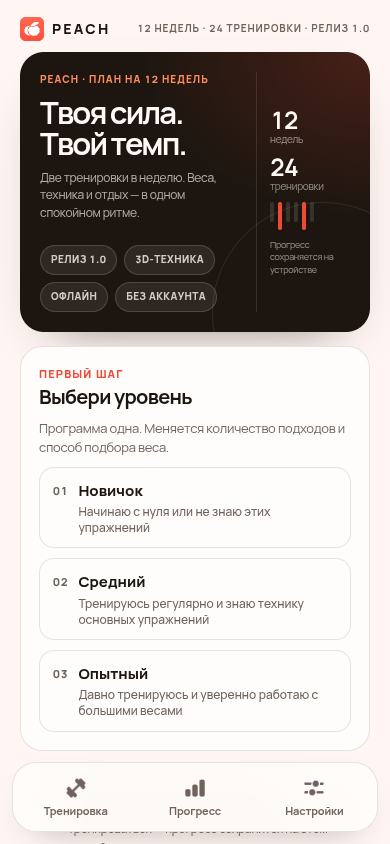
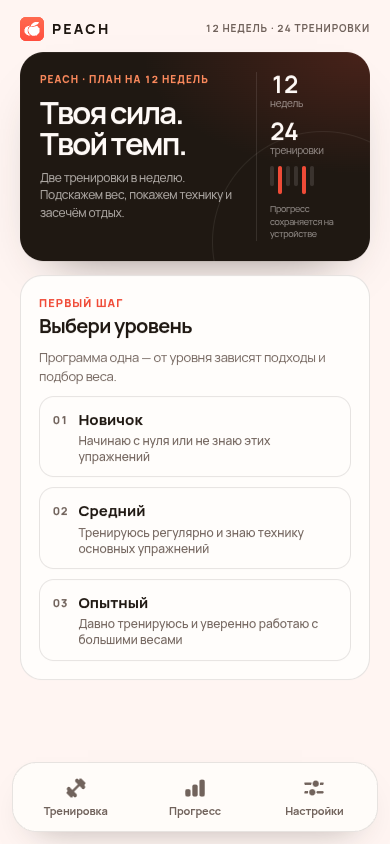
Calm UI 1.1: focused workout, contained timer, stable navigation

diff --git a/index.html b/index.html
@@ -474,7 +474,7 @@ input[aria-invalid="true"]{box-shadow:0 0 0 2px var(--bad)}
 <div id="launch" aria-hidden="true"><svg><use href="#peach"/></svg></div>
 
 <header><div class="wrap">
-  <div class="brandline"><span class="brand"><img class="brand-logo" src="peach-logo.svg" alt="" width="24" height="24">PEACH</span><span class="brandnote">12 недель · 24 тренировки · Релиз 1.0</span></div>
+  <div class="brandline"><span class="brand"><img class="brand-logo" src="peach-logo.svg" alt="" width="24" height="24">PEACH</span><span class="brandnote">12 недель · 24 тренировки</span></div>
   <div class="top">
     <div><h1 id="ttl">Неделя 1</h1><div class="sub" id="sub"></div></div>
     <div class="ring" title="Выполнено тренировок"><svg viewBox="0 0 50 50"><circle class="tr" cx="25" cy="25" r="21"/><circle class="pr" id="ringp" cx="25" cy="25" r="21" stroke-dasharray="131.9" stroke-dashoffset="131.9"/></svg><b id="ringt">0/24</b></div>
@@ -501,7 +501,7 @@ input[aria-invalid="true"]{box-shadow:0 0 0 2px var(--bad)}
     <span class="rest-kicker" id="rfkicker">Отдых</span>
     <div class="rest-ring">
       <svg viewBox="0 0 280 280" aria-hidden="true"><circle class="rr-track" cx="140" cy="140" r="122"/><circle class="rr-progress" id="rfprogress" cx="140" cy="140" r="122" pathLength="100" stroke-dasharray="100" stroke-dashoffset="100"/></svg>
-      <div class="rest-clockbox"><span class="rest-state" id="rfstate">Отдых</span><b class="rest-clock" id="rfclock" role="timer" aria-live="off">0:00</b><span class="rest-sub" id="rfsub">до следующего подхода</span></div>
+      <div class="rest-clockbox"><span class="rest-state" id="rfstate">Отдых</span><b class="rest-clock" id="rfclock" role="timer" aria-live="off">0:00</b><span class="rest-sub" id="rfsub">до подхода</span></div>
     </div>
     <div class="rest-next" id="rfcard"></div><p id="rfcoach" class="rest-coach"></p><div class="rest-effort"><span>Как прошёл подход? <small>можно пропустить</small></span><div class="effort-options" id="rfeffort"><button type="button" data-effort="easy" aria-pressed="false">Легко</button><button type="button" data-effort="ok" aria-pressed="false">Нормально</button><button type="button" data-effort="hard" aria-pressed="false">Тяжело</button></div><p id="rfnote" class="effort-note" role="status"></p></div>
   </div>
@@ -645,7 +645,7 @@ function newBlock(){               /* carry working weights into a fresh 12 week
 }
 function tonnage(w,d){let t=0;for(const ex of EX[d])for(const r of rows(w,ex.id))t+=num(r[0])*num(r[1]);return t}
 const PV=2;                                                      /* program version: 2 = seated leg curl added */
-const RELEASE={version:"1.0.0",date:"26 ноября 2026",name:"PEACH"};
+const RELEASE={version:"1.1.0",date:"26 ноября 2026",name:"PEACH"};
 function dayVer(w,d){const v=(S.verAt||{})[w+"-"+d];if(v)return v;return EX[d].some(ex=>!ex.since&&rows(w,ex.id).some(full))?1:PV}
 const EXD=(w,d)=>EX[d].filter(ex=>(ex.since||1)<=dayVer(w,d));
 const easy=(w,d)=>!!(S.easy&&S.easy[w+"-"+d]);
@@ -921,8 +921,11 @@ function renderTrain(fresh){
     if(ex.tip)coach+=`<p class="meta">${esc(ex.tip)}.</p>`;
     h+=`<p class="meta">Отдых ${ex.rest}.</p>`;
     if(ex.alt?HOWA[ex.name]:HOW[ex.id])h+=`<button type="button" class="technique-link" data-how="${ex.id}"><span>Показать технику</span><small>схема и подсказки</small><b aria-hidden="true">›</b></button>`;
-    if(coach)h+=`<details class="why coach"><summary>Как делать подходы</summary><div class="coach-body">${coach}</div></details>`;
-    if(beg&&w===1&&!lt&&!r.some(full))h+=beginnerGuide(ex,w);
+    let help="";
+    if(coach)help+=`<div class="coach-body">${coach}</div>`;
+    if(beg&&w===1&&!lt&&!r.some(full))help+=beginnerGuide(ex,w);
+    help+=exerciseWhy(ex);
+    if(help)h+=`<details class="why coach ex-help"><summary>Подсказки к упражнению</summary>${help}</details>`;
     h+=`<div class="sets">`;
     for(let s=0;s<n;s++){
       const on=full(r[s]), sg=suggest(ex,w,d,s), emptyUndo=justUndone&&justUndone.id===ex.id&&justUndone.s===s&&!justUndone.prev, v=on?r[s]:emptyUndo?["",""]:[sg.kg,sg.reps];
@@ -935,7 +938,6 @@ function renderTrain(fresh){
       }else h+=`<button type="button" class="srow${on?" on":""}${justDone&&justDone.id===ex.id&&justDone.s===s?" new":""}" data-edit="${s}" aria-label="Подход ${s+1}${on?", выполнен":""}"><span class="n">${s+1}</span><span class="val">${v[0]!==""?`<b>${esc(v[0])}</b> кг × <b>${esc(v[1])}</b>`:"— кг × "+esc(v[1])}</span><span class="ck">${on?CK:""}</span></button>`;
     }
     h+=`</div>`;
-    h+=exerciseWhy(ex);
     if(ex.wave&&!pick(ex.id,w)){const v=e1(w,ex.id),tv=p===2&&!ez?testE1(w,ex.id):0;let best=base(ex.id,1);for(let x=1;x<w;x++)best=Math.max(best,e1(x,ex.id));
       if(v)h+=`<div class="e1">Оценка силы: <b>≈${fmt(v)} кг на 1 повторение</b>${v>best+0.05?'<span class="tag">рекорд</span>':""}</div><p class="meta">Только для сравнения результатов. Не пробуй этот вес.</p>`;
       if(tv)h+=`<p class="meta">Следующие 4 недели рассчитаем по первому контрольному подходу ★. Его оценка: <b>≈${fmt(tv)} кг на 1 повторение</b>.</p>`}
@@ -1028,7 +1030,7 @@ function achCard(){
 function bodyCard(){
   const a=S.body||[], f=k=>a.filter(x=>num(x[k])), talk=bodyTalk(), p=S.photo||{}, due=photoDue(), dt=t=>new Date(t).toLocaleDateString("ru-RU",{day:"2-digit",month:"2-digit"});
   let h=`<section class="card" id="bodycard"><div class="row"><h3>Фото и замеры</h3><span class="pill ${p.a?"good":"wait"}">${p.z?"до и после есть":p.a?"точка отсчёта есть":"начни с фото"}</span></div>`;
-  if(!p.a)h+=`<p><b>Фото помогают увидеть изменения.</b> То, что происходит постепенно, трудно заметить в зеркале каждый день.</p><p>Сними первое фото сегодня. Оно останется в твоём телефоне — приложение его не загружает.</p>`;
+  if(!p.a)h+=`<p class="meta">Первое фото — точка отсчёта на 12 недель. Оно остаётся в твоём телефоне.</p>`;
   h+=`<div class="pht">${PHO.map(([k,n])=>`<div class="${p[k]?"on":k===due?"due":""}"><b>${p[k]?"✓ ":""}${n}</b><span>${p[k]?dt(p[k]):k==="a"?"сегодня":k==="m"?"недели 6–8":"после 12-й недели"}</span></div>`).join("")}</div>`;
   if(due)h+=`<button type="button" class="easy" data-photo="${due}">${due==="a"?"Фото «до» сделала":due==="m"?"Фото на середине сделала":"Фото «после» сделала"}</button>`;
   else if(p.z)h+=`<p><b>Открой первое и последнее фото рядом.</b> Сравнивай их в одинаковом свете.</p>`;
@@ -1090,13 +1092,13 @@ function renderProgressBeg(){
     h+=`<section class="card"><div class="row"><h3>${l.name}</h3><span class="pill ${got.length<2?"wait":diff>0?"good":"warn"}">${got.length<2?"ждём записей":diff>0?"вес растёт":"вес пока на месте"}</span></div>
       ${got.length?`<div class="big">${fk(last)} <small>кг${got.length>1?` · ${diff>=0?"+":"−"}${fk(Math.abs(diff))} кг к первой неделе`:" · рабочий вес"}</small></div>${weekChart(vals)}`:`<p class="meta">Рабочий вес появится после первой тренировки с этим упражнением.</p>`}</section>`;
   }
-  h+=historyCard()+achCard()+`<p class="meta">На графике — самый тяжёлый рабочий подход каждой недели.</p>`+bodyCard()+`
-    <section class="card"><h3>Если вес не растёт</h3><ul>
+  h+=historyCard()+`<details class="card fold"><summary>Достижения</summary>`+achCard()+`</details><p class="meta">На графике — самый тяжёлый рабочий подход каждой недели.</p>`+bodyCard()+`
+    <details class="card fold"><summary>Если вес не растёт</summary><ul>
     <li>Не получился максимум диапазона — повтори тот же вес в следующий раз.</li>
     <li>Вес стоит три недели — проверь, не остаётся ли после подхода больше 3 повторений. Если да, немного прибавь.</li>
     <li>Копится усталость или падают веса — включи «Сегодня полегче».</li>
     <li>Для прогресса нужны сон, достаточно еды и белок 1,6–2,2 г на килограмм веса.</li>
-    <li>Болит сустав или поясница — остановись и замени упражнение. Боль не терпи.</li></ul></section>`;
+    <li>Болит сустав или поясница — остановись и замени упражнение. Боль не терпи.</li></ul></details>`;
   $("view").innerHTML=h;syncFooter();
 }
 function renderProgress(){
@@ -1118,31 +1120,31 @@ function renderProgress(){
     h+=`<tr class="${p===3?"rest":""}${w===S.cur.w?" cur":""}"><td>${w} · ${LABEL[p]}</td>`+
       LIFTS.map(l=>`<td>${isBeg(w)?"новичок":(pick(l.id,w)||!base(l.id,1)?"подбор":fk(planKg(l.id,w)))+" × "+SC(w)[l.day].reps[p]}</td>`).join("")+`</tr>`}
   h+=`</tbody></table></div><p class="meta">В таблице: вес × повторения. После недель 3, 7 и 11 план обновится по контрольным подходам ★.</p></section>
-`+historyCard()+achCard()+bodyCard()+`<section class="card"><h3>Если вес не растёт</h3><ul>
+`+historyCard()+`<details class="card fold"><summary>Достижения</summary>`+achCard()+`</details>`+bodyCard()+`<details class="card fold"><summary>Если вес не растёт</summary><ul>
     <li>Одна неудачная тренировка — норма. Следующую начни по плану.</li>
     <li>Меньше повторений две проверки подряд — проверь сон, питание и технику.</li>
     <li>Для прогресса нужны достаточно еды и белок 1,6–2,2 г на килограмм веса.</li>
     <li>Падают веса сразу во всех упражнениях — сделай лёгкую неделю и поспи 7–9 часов.</li>
-    <li>Болит сустав или поясница — остановись и замени упражнение. Боль не терпи.</li></ul></section>`;
+    <li>Болит сустав или поясница — остановись и замени упражнение. Боль не терпи.</li></ul></details>`;
   $("view").innerHTML=h;syncFooter();
 }
 const isFirst=()=>!S.startSet&&!Object.keys(S.log||{}).length;
 const OB={};
 function welcomeHero(){
-  return `<section class="welcome-hero"><div class="welcome-copy"><span class="cap">PEACH · ПЛАН НА 12 НЕДЕЛЬ</span><h2>Твоя сила.<br>Твой темп.</h2><p>Две тренировки в неделю. Веса, техника и отдых — в одном спокойном ритме.</p><div class="release-strip" aria-label="Ключевые возможности релиза"><span>Релиз 1.0</span><span>3D-техника</span><span>Офлайн</span><span>Без аккаунта</span></div></div><div class="welcome-plan" aria-label="План: 12 недель, 24 тренировки"><div><b>12</b><span>недель</span></div><div><b>24</b><span>тренировки</span></div><div class="welcome-line"><i></i><i></i><i></i><i></i><i></i><i></i></div><small>Прогресс сохраняется на устройстве</small></div></section>`
+  return `<section class="welcome-hero"><div class="welcome-copy"><span class="cap">PEACH · ПЛАН НА 12 НЕДЕЛЬ</span><h2>Твоя сила.<br>Твой темп.</h2><p>Две тренировки в неделю. Подскажем вес, покажем технику и засечём отдых.</p></div><div class="welcome-plan" aria-label="План: 12 недель, 24 тренировки"><div><b>12</b><span>недель</span></div><div><b>24</b><span>тренировки</span></div><div class="welcome-line"><i></i><i></i><i></i><i></i><i></i><i></i></div><small>Прогресс сохраняется на устройстве</small></div></section>`
 }
 function levelCard(){
   const L=OB.lv;
-  let h=welcomeHero()+`<section class="card level-card"><div class="section-heading"><span class="cap">Первый шаг</span><h3>Выбери уровень</h3></div><p class="meta">Программа одна. Меняется количество подходов и способ подбора веса.</p>`;
+  let h=welcomeHero()+`<section class="card level-card"><div class="section-heading"><span class="cap">Первый шаг</span><h3>Выбери уровень</h3></div><p class="meta">Программа одна — от уровня зависят подходы и подбор веса.</p>`;
   for(const k of Object.keys(LEVELS))h+=`<button type="button" class="opt lv" data-lvpick="${k}" aria-pressed="${L===k}"><span><b>${LEVELS[k].n}</b><i>${LEVELS[k].who}</i></span></button>`;
   if(L)h+=`<div class="note"><b>Твой уровень: «${LEVELS[L].n}».</b> ${LEVELS[L].text}</div>`;
   return h+`</section>`;
 }
 function renderWelcome(){
-  const L=OB.lv, B=L==="beg", fin=`<section class="card"><h3>Перед первой тренировкой</h3><p class="meta">Если есть травма, беременность или ограничения по здоровью, сначала согласуй нагрузку с врачом. При резкой боли, головокружении или нехватке воздуха остановись.</p></section><button type="button" class="cta" id="obgo">Начать</button><p class="sync">${L?`Выбран уровень <b>«${LEVELS[L].n}»</b>. `:""}Настройки можно изменить позже. Записи хранятся только в этом браузере и не переносятся между устройствами автоматически. Копию можно скачать в «Настройках».</p>`;
+  const L=OB.lv, B=L==="beg", fin=`<button type="button" class="cta" id="obgo">Начать</button><p class="sync">Травма, беременность или ограничения по здоровью — сначала согласуй нагрузку с врачом. Резкая боль, головокружение, нехватка воздуха — стоп.</p><p class="sync">Записи остаются в этом браузере. Копия и перенос — в «Настройках».</p>`;
   let h=levelCard();
-  if(!L){$("view").innerHTML=h+`<div class="onboarding-intro"><p><b>12 недель · 2 тренировки в неделю.</b><br>Подскажем вес, технику и отдых. Тебе останется тренироваться — прогресс сохранится на этом устройстве.</p></div>`;return}
-  if(B||OB.nw)h+=`<section class="card"><h3>${B?"Начнём с пустого грифа":"Вес подберём в зале"}</h3><p class="meta">${B?"В мосту и тяге подставим <b>20 кг</b> как ориентир. На первой тренировке проверь вес грифа: после подхода приложение подскажет, когда прибавить или убавить. Если штанга пока неудобна, мост можно заменить вариантом без веса.":"Сейчас ничего вводить не нужно. На первой тренировке начнёшь с лёгкого веса, а приложение подскажет, когда прибавить или убавить."}</p>${B?`<details class="why"><summary>Знаю вес своего грифа</summary><p class="meta">Если не знаешь, просто оставь 20 кг. Это стартовый ориентир, а не обязательный вес.</p><div class="obbar">${[["ht","Гриф для моста"],["rdl","Гриф для тяги"]].map(([id,n])=>`<div><label class="lbl" for="ob-bar-${id}">${n}</label><div class="field"><input id="ob-bar-${id}" inputmode="decimal" autocomplete="off" data-obbar="${id}" value="${esc(OB["bar-"+id]||"20")}" aria-describedby="obgo"><span>кг</span></div></div>`).join("")}</div></details>`:`<button type="button" class="easy" data-nw aria-pressed="true">Знаю свои рабочие веса</button>`}</section>`;
+  if(!L){$("view").innerHTML=h;return}
+  if(B||OB.nw)h+=`<section class="card"><h3>${B?"Начнём с пустого грифа":"Вес подберём в зале"}</h3><p class="meta">${B?"Для моста и тяги поставим ориентир <b>20 кг</b>. После первого подхода подскажем, прибавить или убавить.":"Ничего вводить не нужно: начнёшь с лёгкого веса, дальше подскажем."}</p>${B?`<details class="why"><summary>Знаю вес своего грифа</summary><p class="meta">Если не знаешь, просто оставь 20 кг. Это стартовый ориентир, а не обязательный вес.</p><div class="obbar">${[["ht","Гриф для моста"],["rdl","Гриф для тяги"]].map(([id,n])=>`<div><label class="lbl" for="ob-bar-${id}">${n}</label><div class="field"><input id="ob-bar-${id}" inputmode="decimal" autocomplete="off" data-obbar="${id}" value="${esc(OB["bar-"+id]||"20")}" aria-describedby="obgo"><span>кг</span></div></div>`).join("")}</div></details>`:`<button type="button" class="easy" data-nw aria-pressed="true">Знаю свои рабочие веса</button>`}</section>`;
   else{h+=`<section class="card"><h3>Твой обычный рабочий подход</h3><p class="meta">Впиши вес и повторения, которые делаешь уверенно и с хорошей техникой. Не максимум на один раз. По ним рассчитаем первую тренировку.</p>`;
     for(const l of LIFTS)h+=`<div class="obrow"><b>${l.name}</b><button type="button" class="ghostbtn" data-how="${l.id}">Посмотреть технику ›</button><div class="grid2">
       <div class="field"><input id="ob-${l.id}-w" inputmode="decimal" autocomplete="off" data-ob="${l.id}-w" value="${esc(OB[l.id+"-w"]||"")}" aria-label="${l.name}: вес"><span>кг</span></div>
@@ -1153,7 +1155,7 @@ function renderWelcome(){
 function isStandalone(){try{return matchMedia("(display-mode: standalone)").matches||navigator.standalone===true}catch(e){return navigator.standalone===true}}
 let installPrompt=null,installConfirmed=isStandalone();
 function releaseCard(){
-  return `<section class="card release-card" id="release-info"><div class="section-heading"><span class="cap">Релиз ${RELEASE.version} · ${RELEASE.date}</span><h3>PEACH готов к тренировке</h3></div><p class="meta">Полный план, интерактивная техника, таймеры и копия дневника работают без аккаунта. Данные остаются на этом устройстве.</p><div class="release-actions"><a class="release-link" href="release.html">Что нового</a><a class="release-link" href="privacy.html">Конфиденциальность</a><a class="release-link" href="terms.html">Условия</a><a class="release-link" href="credits.html">Источники</a><a class="release-link" href="https://github.com/morozovandrew20/peach-fitness/issues" target="_blank" rel="noopener">Поддержка</a></div></section>`
+  return `<section class="card about-card" id="release-info"><div class="row"><h3>О приложении</h3><span class="pill">Релиз ${RELEASE.version}</span></div><div class="release-actions"><a class="release-link" href="release.html">Что нового</a><a class="release-link" href="privacy.html">Конфиденциальность</a><a class="release-link" href="terms.html">Условия</a><a class="release-link" href="credits.html">Источники</a><a class="release-link" href="https://github.com/morozovandrew20/peach-fitness/issues" target="_blank" rel="noopener">Поддержка</a></div></section>`
 }
 function installCard(){
   return installConfirmed?`<section class="card" id="install"><h3>PEACH на главном экране</h3><p class="meta">Приложение установлено. Открывай тренировку одним касанием — записи по-прежнему хранятся на этом устройстве.</p></section>`:`<section class="card" id="install"><h3>PEACH на главном экране</h3><p class="meta">Добавь ярлык, чтобы тренировка была рядом с мессенджерами. Аккаунт и интернет для этого не нужны.</p><button type="button" class="btn" data-install>Добавить на главный экран</button><span class="e1" id="installmsg" role="status"></span></section>`
@@ -1186,8 +1188,8 @@ function renderSetup(){
   if(!S.startSet&&!B)h+=`<div class="note">Сейчас указаны примеры. Замени их на свои веса и повторения.</div>`;
   {const L=LEVELS[S.level]?S.level:"mid",logged=Object.keys(S.lvAt||{}).length;
   h+=`<section class="card" id="settings-program"><h3>Уровень</h3><div class="seg seg3" role="group" aria-label="Уровень">${["beg","mid","adv"].map(k=>`<button type="button" data-level="${k}" aria-pressed="${L===k}">${LEVELS[k].n}</button>`).join("")}</div>
-    <p class="meta"><b>${LEVELS[L].who}.</b> ${LEVELS[L].text}${logged?" Новый уровень применится только к неделям без записей. Прошлые тренировки не изменятся.":""}</p></section>`;}
-  h+=releaseCard()+themeCard()+installCard();
+    <p class="meta">${LEVELS[L].who}.${logged?" Новый уровень применится только к неделям без записей.":""}</p></section>`;}
+  h+=themeCard()+installCard();
   if(!B)for(const l of LIFTS){const s=S.start[l.id];
     const cb=calibOn(l.id),cv=cb?base(l.id,1):0;
     h+=`<section class="card"><div class="row"><h3>${l.name}</h3><span class="e1">оценка силы: <b id="b-${l.id}">${cb&&!cv?"—":fmt(base(l.id,1))+" кг"}</b></span></div>${cb?`<p class="meta">${cv?"Сейчас используется расчёт по первой тренировке.":"Расчёт появится после первой тренировки."} Если знаешь свой рабочий подход, впиши его — расчёт обновится.</p>`:""}
@@ -1221,7 +1223,7 @@ function renderSetup(){
       <div class="row"><button type="button" class="btn" id="newblock">Подготовить новый блок</button><span class="e1" id="nbmsg" role="status"></span></div></section>
     <section class="card"><h3>Начать заново</h3><p class="meta">Удалит все записи и вернёт исходные настройки. Сначала сохранится автоматическая копия, из которой дневник можно восстановить.</p>
       <div class="row"><button type="button" class="btn danger" id="reset">Удалить дневник</button><span class="e1" id="resetmsg" role="status"></span></div></section>
-    <p class="sync" id="sync"></p>`;
+    ${releaseCard()}<p class="sync" id="sync"></p>`;
   $("view").innerHTML=h; setSync();
 }
 function render(fresh){document.body.classList.toggle("welcome-mode",tab==="train"&&isFirst());document.body.classList.toggle("workout-mode",tab==="train"&&!isFirst());document.body.classList.toggle("settings-mode",tab==="setup");applyTheme();awake();renderChrome(true);({train:isFirst()?renderWelcome:renderTrain,progress:renderProgress,setup:renderSetup})[tab]();const v=$("view");if(fresh){v.classList.remove("in");void v.offsetWidth;v.classList.add("in");clearTimeout(render.t);render.t=setTimeout(()=>v.classList.remove("in"),900)}}
@@ -1284,8 +1286,8 @@ function syncRestFace(){
   const left=tDone?0:(tPaused||Math.max(0,tEnd-Date.now())),progress=tDone?100:Math.max(0,Math.min(100,100-left/Math.max(1,tLen)*100)),screen=$("restfocus").querySelector(".rest-screen");
   $("timerin").style.setProperty("--p",progress+"%");$("rfprogress").style.strokeDashoffset=String(100-progress);
   $("timer").classList.toggle("end",tDone);screen.classList.toggle("done",tDone);$("rfkicker").textContent=(tPaused?"Пауза · ":"Отдых · ")+tLabel;
-  if(tDone){$("tlbl").textContent="Отдых закончен";$("tclock").textContent="Погнали";$("rfstate").textContent="Отдых закончен";$("rfclock").textContent="Погнали";$("rfsub").textContent="Следующий подход уже ждёт"}
-  else{$("tlbl").textContent=(tPaused?"Пауза · ":"Отдых · ")+tLabel;$("tclock").textContent=clockText(left);$("rfstate").textContent=tPaused?"Пауза":"Отдых";$("rfclock").textContent=clockText(left);$("rfsub").textContent=tPaused?"Время остановлено":"до следующего подхода"}
+  if(tDone){$("tlbl").textContent="Отдых закончен";$("tclock").textContent="Погнали";$("rfstate").textContent="Отдых закончен";$("rfclock").textContent="Погнали";$("rfsub").textContent="Следующий подход ждёт"}
+  else{$("tlbl").textContent=(tPaused?"Пауза · ":"Отдых · ")+tLabel;$("tclock").textContent=clockText(left);$("rfstate").textContent=tPaused?"Пауза":"Отдых";$("rfclock").textContent=clockText(left);$("rfsub").textContent=tPaused?"Пауза":"до подхода"}
   $("rfpause").textContent=tPaused?"Продолжить":"Пауза";$("rfpause").setAttribute("aria-pressed",String(!!tPaused));$("rfpause").setAttribute("aria-label",tPaused?"Продолжить отдых":"Поставить отдых на паузу");
   $("rfcontrols").hidden=tDone;$("rfnext").hidden=!tDone;$("rfstop").textContent=tDone?"Закрыть таймер":"Пропустить отдых";$("rfhint").textContent=tDone?"Следующий подход готов: проверь вес и повторения.":"Можно свернуть — отсчёт продолжится."
 }

diff --git a/release.html b/release.html
@@ -3,7 +3,7 @@
 <head>
 <meta charset="utf-8">
 <meta name="viewport" content="width=device-width,initial-scale=1,viewport-fit=cover">
-<title>PEACH 1.0 — релиз</title>
+<title>PEACH 1.1 — релиз</title>
 <meta name="description" content="PEACH 1.0: силовой план на 12 недель, интерактивная 3D-техника, живой режим, таймеры, прогресс и офлайн.">
 <link rel="icon" href="favicon.ico" sizes="any">
 <link rel="stylesheet" href="flagship.css">
@@ -16,7 +16,7 @@
   </header>
 
   <section class="doc-hero">
-    <span class="cap">Релиз 1.0 · 26 ноября 2026</span>
+    <span class="cap">Релиз 1.1 · 26 ноября 2026</span>
     <h1>Тренировка без хаоса — от первого подхода до двенадцатой недели</h1>
     <p>PEACH соединяет спокойный план, подсказки по весу, технику и дневник в одном приложении, которое можно установить на телефон и открыть даже без сети.</p>
     <div class="doc-badges"><span>12 недель</span><span>24 тренировки</span><span>8 упражнений</span><span>Офлайн</span></div>
@@ -30,6 +30,11 @@
   </nav>
 
   <main class="doc-content">
+    <section>
+      <h2>Что нового в 1.1</h2>
+      <p>Интерфейс стал спокойнее: с приветственного экрана убраны промо-плашки, подсказки к упражнению собраны в один раскрывающийся блок, достижения и советы в прогрессе сворачиваются, а юридические ссылки переехали в компактный раздел «О приложении» внизу настроек. Исправлены выход текста за круг таймера на узких экранах и дрожание кнопок нижней панели.</p>
+      <p>Тренировочная логика, формулы, дневник, бэкапы и 3D-анимация не изменились. Формат данных <b>volny-v1</b> совместим с прошлыми версиями.</p>
+    </section>
     <section>
       <h2>Что вошло в релиз</h2>
       <ul>
@@ -64,7 +69,7 @@
     </section>
   </main>
 
-  <p class="doc-footer">PEACH 1.0 · Релизная версия для проверки, установки и продажи.</p>
+  <p class="doc-footer">PEACH 1.1 · Релизная версия для проверки, установки и продажи.</p>
 </div>
 </body>
 </html>

diff --git a/flagship.css b/flagship.css
@@ -790,3 +790,35 @@ body.doc-page{min-height:100vh;background:radial-gradient(circle at 20% -10%,col
 .doc-note{border-left:4px solid var(--a1)}
 @media(max-width:560px){.doc-nav{grid-template-columns:1fr 1fr}.doc-hero{padding:24px 20px}.doc-top{padding-bottom:16px}}
 @media(prefers-reduced-motion:reduce){.release-link,.doc-home{transition:none}}
+
+/* v11 — спокойный интерфейс: меньше шума, стабильные навигация и таймер */
+/* Нижняя панель: без transform-центрирования и пружинных иконок — кнопки не «улетают» */
+nav{left:12px;right:12px;width:auto;max-width:520px;margin-inline:auto;transform:none}
+nav svg{transition:none;transform:none!important}
+nav button{min-width:0;white-space:nowrap;overflow:hidden;text-overflow:ellipsis}
+nav .bar{grid-template-columns:repeat(3,minmax(0,1fr))}
+main{padding-bottom:calc(104px + env(safe-area-inset-bottom,0px))}
+/* Таймер: текст всегда внутри круга, на 320–390 тоже */
+.rest-clockbox{display:flex;flex-direction:column;align-items:center;justify-content:center;gap:2px;max-width:74%;text-align:center;pointer-events:none}
+.rest-clock{font-size:clamp(38px,12.5vw,62px);line-height:1;white-space:nowrap}
+.rest-state,.rest-sub{max-width:100%;font-size:11px;line-height:1.25;text-align:center;overflow-wrap:anywhere}
+/* Секции-подсказки: одна строка вместо трёх блоков */
+.ex-help{margin-top:10px}
+.ex-help>.coach-body{margin-top:8px}
+.ex-help details{margin-top:8px}
+details.card.fold{padding:0}
+details.card.fold>summary{list-style:none;cursor:pointer;padding:18px 20px;font-size:17px;font-weight:750;letter-spacing:-.02em;min-height:54px;display:flex;align-items:center;justify-content:space-between;gap:12px}
+details.card.fold>summary::-webkit-details-marker{display:none}
+details.card.fold>summary::after{content:"›";font-size:22px;font-weight:400;color:var(--muted);transform:rotate(90deg);transition:transform .2s var(--ease)}
+details.card.fold[open]>summary::after{transform:rotate(-90deg)}
+details.card.fold>section.card{border:0;border-radius:0;box-shadow:none;background:transparent;padding-top:0}
+details.card.fold>ul{margin:0;padding:0 22px 18px 38px;color:var(--muted);font-size:14px;line-height:1.5}
+/* Спокойная подача */
+.welcome-copy p{max-width:30ch}
+.about-card .release-actions{margin-top:12px}
+.sync{max-width:52ch;margin-inline:auto}
+@media(max-width:360px){
+  .rest-clock{font-size:clamp(34px,12vw,44px)}
+  .rest-ring{width:min(56vw,180px)}
+}
+@media(prefers-reduced-motion:reduce){details.card.fold>summary::after{transition:none}}

diff --git a/sw.js b/sw.js
@@ -1,4 +1,4 @@
-const CACHE = "peach-flagship-13";
+const CACHE = "peach-flagship-14";
 const NAV_TIMEOUT = 3500;
 const CORE = [
   "./",
